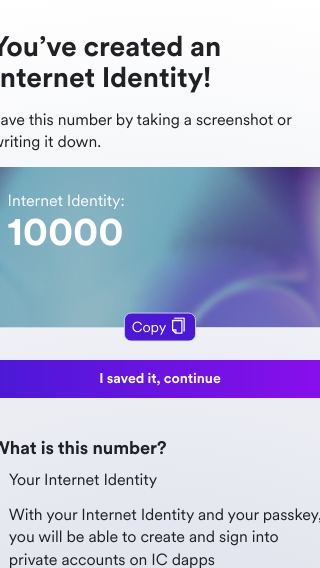
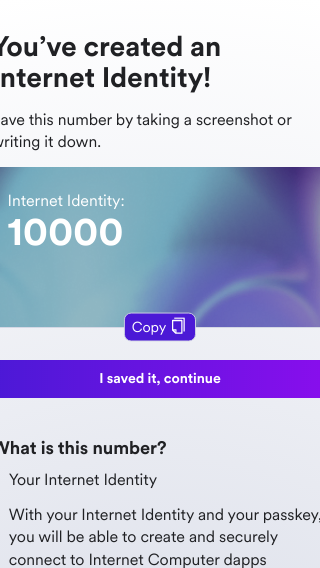
Fix copy for onboarding finish (#1605)
* Fix copy for onboarding finish

This clarifies the copy on the final onboarding screen.

* 🤖 Selenium screenshots auto-update

---------

Changed region(s): [[0.0312, 0.9278, 0.875, 1.0]]

diff --git a/src/frontend/src/flows/register/finish.ts b/src/frontend/src/flows/register/finish.ts
@@ -82,7 +82,7 @@ export const displayUserNumberTemplate = ({
         <h3 class="t-title">What is this number?</h3>
         <ul class="c-list c-list--bulleted">
           <li>Your Internet Identity</li>
-          <li>With your Internet Identity and your passkey, you will be able to create and sign into private accounts on IC dapps</li>
+          <li>With your Internet Identity and your passkey, you will be able to create and securely connect to Internet Computer dapps</li>
         </ul>
       </aside>
 
